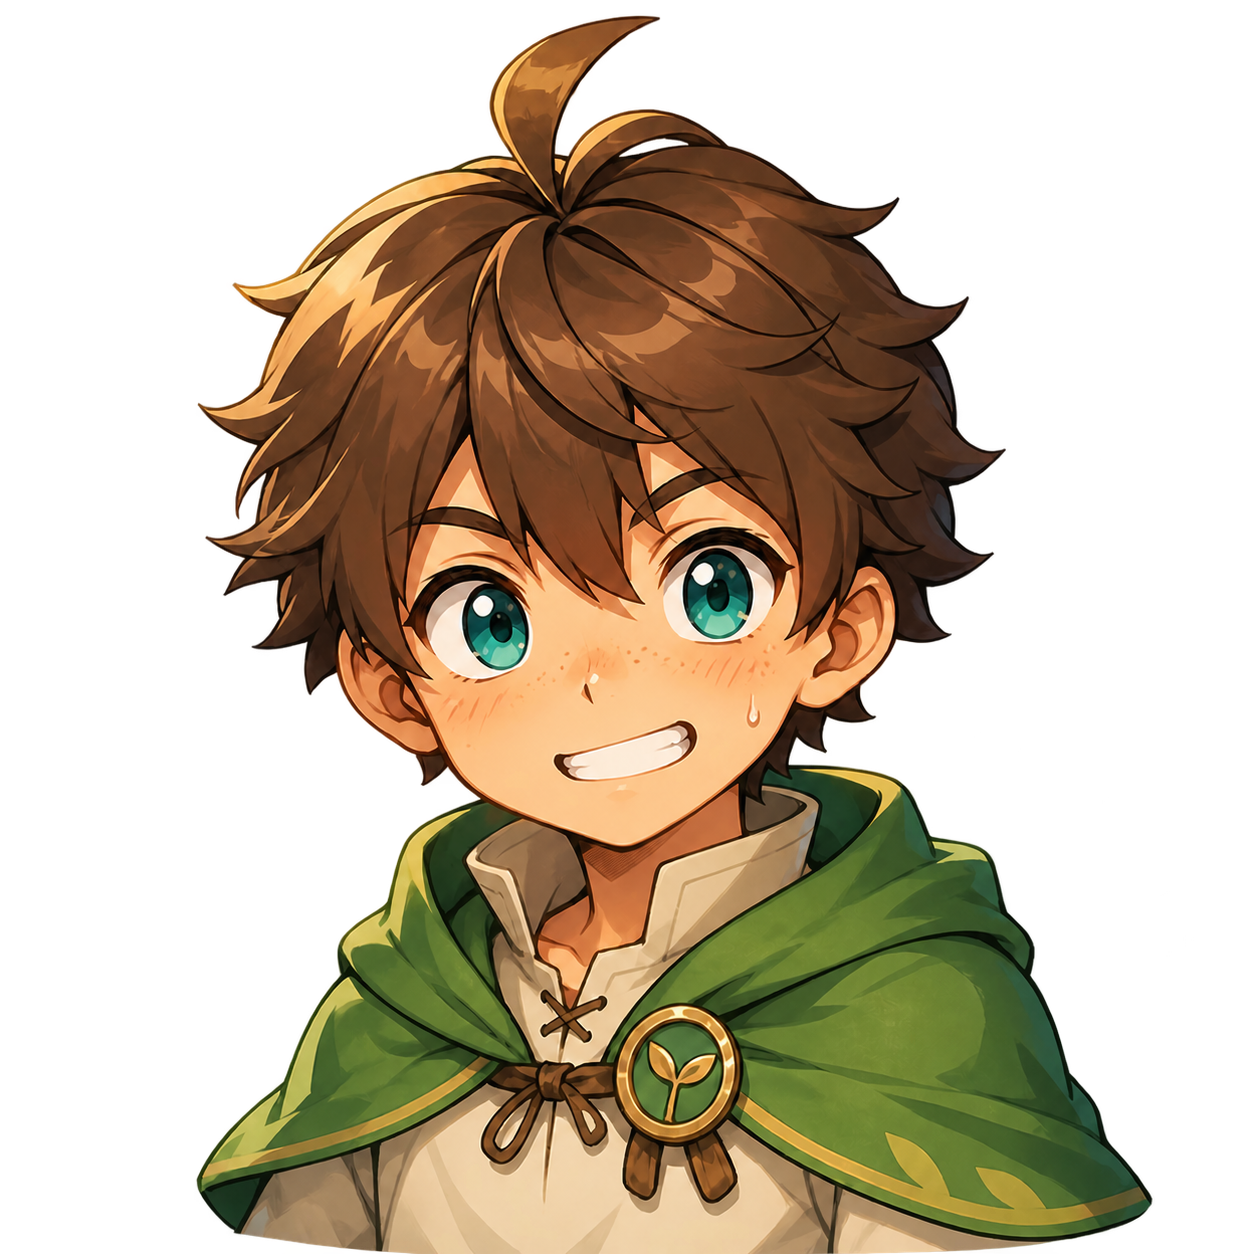
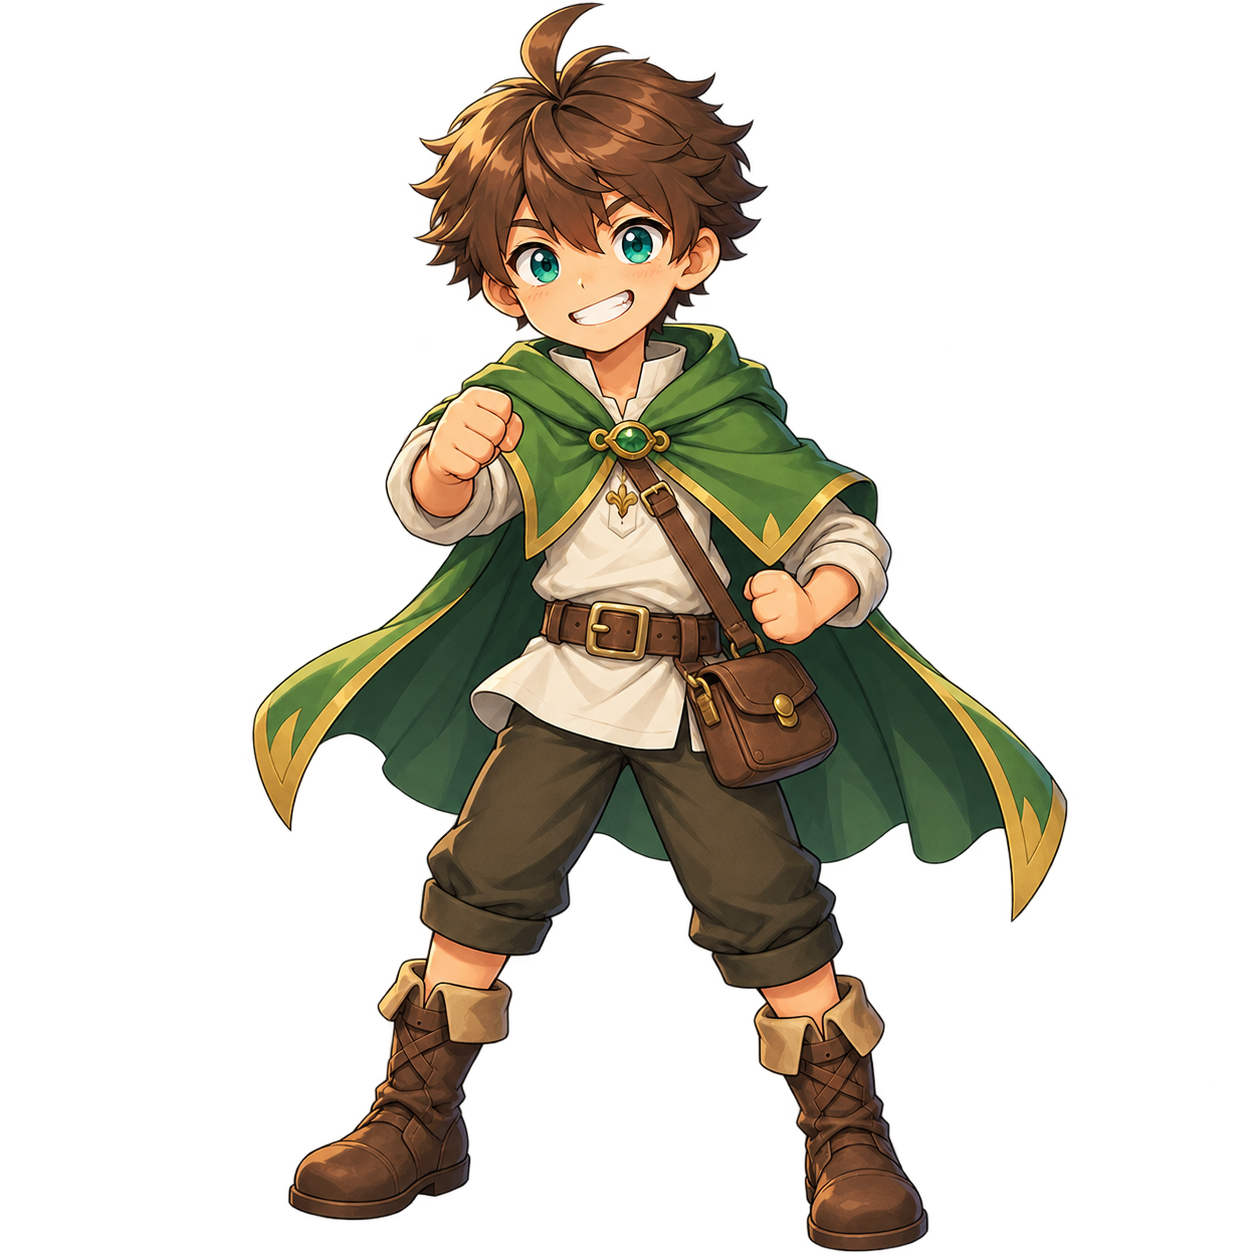
キャラカードの仮イラストを立ち絵から作成、極での出現率を上げる
- tools/chars_from_portraits.py を追加。冒険画面の立ち絵から
  顔まわりを正方形で切り出し、assets/art/c_*.png を作る。
  本番の絵ができるまでのつなぎ（同じ場所に上書きすれば差し替わる）。
- 立ち絵は元から透過の正方形だったので、頭上に少し余白を残して
  バストアップで切っている。カードの絵枠は小さく、全身より顔の方が読める。
- import_art.py の走査対象に cards_chars.js を追加。
- adopt_art.py が art_map.js を先頭スラッシュ無しで書き出していたのを修正。
  withBase() が配信base を前に足すので、相対のままだと
  GitHub Pages のサブパス配信で全カードの絵が壊れる。

- 「極」で相手デッキに混ぜる本人のカードを 1枚 → 4枚 に。
  1枚だと12枚引くまでに引ける確率が40%しかなく、ほとんど出てこなかった。
  4枚で89%になり、たいていの試合で一度は見られる。
  枚数は EXTREME_SELF_COPIES で変えられる。

diff --git a/src/ui/main.js b/src/ui/main.js
@@ -3,7 +3,7 @@
 // ============================================================
 import { ALL_CARDS, card, ELEMENTS, KEYWORDS } from '../engine/cards.js';
 import { RARITY } from '../engine/rarity.js';
-import { CHARACTER_OF, CHARACTER_WINS_NEEDED } from '../engine/cards_chars.js';
+import { CHARACTER_OF, CHARACTER_WINS_NEEDED, EXTREME_SELF_COPIES } from '../engine/cards_chars.js';
 import {
   createGame, mulligan, applyAction, legalAttackTargets, canSummon, canPlaySupport,
   canChangeMode, canAttack, supportNeedsTarget, fieldMonsters, effAtk, effDef,
@@ -1215,10 +1215,11 @@ function startBattle(areaIndex, enemyIndex, free = false) {
   const seed = (Math.random() * 1e9) | 0;
   // フリーバトルの「極」では、そのキャラ自身のカードをデッキに混ぜてくる。
   // 狙っているカードを手に入れる前に見られる、という導線でもある。
+  // 30枚に1枚だとほとんど出てこないので、多めに積ませて high 確率で見られるようにする。
   let foeDeck = [...enemy.deck];
   const selfCard = CHARACTER_OF[app.enemyKey];
   if (free && app.freeDiff === 'extreme' && selfCard) {
-    foeDeck = [selfCard, ...foeDeck.slice(1)];
+    foeDeck = [...Array(EXTREME_SELF_COPIES).fill(selfCard), ...foeDeck.slice(EXTREME_SELF_COPIES)];
   }
   app.game = createGame({
     decks: [[...app.save.deck], foeDeck],

diff --git a/src/ui/art_map.js b/src/ui/art_map.js
@@ -1,6 +1,30 @@
 // tools/import_art.py / tools/adopt_art.py が自動生成。手で編集しない。
 // カードIDごとの差し替えイラスト（透過PNG）。
 export const ART_MAP = {
+  "c_astel": "/assets/art/c_astel.webp",
+  "c_astralis": "/assets/art/c_astralis.webp",
+  "c_cardan": "/assets/art/c_cardan.webp",
+  "c_dione": "/assets/art/c_dione.webp",
+  "c_garo": "/assets/art/c_garo.webp",
+  "c_gou": "/assets/art/c_gou.webp",
+  "c_kairos": "/assets/art/c_kairos.webp",
+  "c_mina": "/assets/art/c_mina.webp",
+  "c_morley": "/assets/art/c_morley.webp",
+  "c_nameless": "/assets/art/c_nameless.webp",
+  "c_nept": "/assets/art/c_nept.webp",
+  "c_nox": "/assets/art/c_nox.webp",
+  "c_ordo": "/assets/art/c_ordo.webp",
+  "c_pirika": "/assets/art/c_pirika.webp",
+  "c_riina": "/assets/art/c_riina.webp",
+  "c_rim": "/assets/art/c_rim.webp",
+  "c_toto": "/assets/art/c_toto.webp",
+  "c_triades": "/assets/art/c_triades.webp",
+  "c_twins": "/assets/art/c_twins.webp",
+  "c_val": "/assets/art/c_val.webp",
+  "c_varga": "/assets/art/c_varga.webp",
+  "c_verda": "/assets/art/c_verda.webp",
+  "c_yona": "/assets/art/c_yona.webp",
+  "c_yue": "/assets/art/c_yue.webp",
   "f01": "/assets/art/f01.webp",
   "f02": "/assets/art/f02.webp",
   "f03": "/assets/art/f03.webp",

diff --git a/src/engine/cards_chars.js b/src/engine/cards_chars.js
@@ -197,3 +197,10 @@ export const CHARACTER_OF = {
 
 /** 「極」で本人を何回倒すと、そのキャラのカードが手に入るか */
 export const CHARACTER_WINS_NEEDED = 5;
+
+/**
+ * 「極」で、相手のデッキに混ぜる本人のカードの枚数（30枚中）。
+ * 1枚だと引かれないまま終わる試合がほとんどなので、4枚にして
+ * だいたいの試合で1回は見られるようにしている。
+ */
+export const EXTREME_SELF_COPIES = 4;

diff --git a/tools/chars_from_portraits.py b/tools/chars_from_portraits.py
@@ -1,0 +1,58 @@
+# ============================================================
+# キャラクターカードの仮イラストを、冒険画面の立ち絵から作る。
+#   本番の絵ができるまでのつなぎ。assets/art/c_*.png を上書きするので、
+#   本番の絵を置いたあとにこれを流すと消えてしまう点に注意。
+#   使い方: python tools/chars_from_portraits.py
+# ============================================================
+import io, os, re, sys
+from PIL import Image
+
+SRC = 'assets/enemies'
+OUT = 'assets/art'
+SIZE = 512          # 出力サイズ（カードの絵枠は正方形）
+HEAD_BIAS = 0.06    # 頭の上にこれだけ余白を残す（切れると窮屈に見える）
+
+# 敵キー → カードID は cards_chars.js の CHARACTER_OF から読む
+src = io.open('src/engine/cards_chars.js', encoding='utf-8').read()
+block = re.search(r'CHARACTER_OF = \{(.*?)\};', src, re.S).group(1)
+KEY_TO_ID = dict(re.findall(r"'(a\d+:\d+)':\s*'(\w+)'", block))
+
+# 敵キー → 立ち絵ファイル は assets_map.js から読む
+am = io.open('src/ui/assets_map.js', encoding='utf-8').read()
+eb = re.search(r'ENEMY_ART = \{(.*?)\};', am, re.S).group(1)
+KEY_TO_ART = dict(re.findall(r'"(a\d+:\d+)":\s*"([^"]+)"', eb))
+
+
+def square_bust(im):
+    """立ち絵から、頭～胸あたりを正方形で切り出す。
+    カードの絵枠は小さいので、全身より顔まわりの方が読み取りやすい。"""
+    bb = im.getchannel('A').getbbox() or (0, 0, *im.size)
+    x0, y0, x1, y1 = bb
+    w, h = x1 - x0, y1 - y0
+    side = min(w, h)
+    cx = (x0 + x1) // 2
+    top = max(0, y0 - int(side * HEAD_BIAS))
+    left = max(0, min(im.width - side, cx - side // 2))
+    top = max(0, min(im.height - side, top))
+    return im.crop((left, top, left + side, top + side))
+
+
+def main():
+    os.makedirs(OUT, exist_ok=True)
+    made = 0
+    for key, cid in sorted(KEY_TO_ID.items()):
+        art = KEY_TO_ART.get(key)
+        if not art:
+            print(f'  立ち絵が見つからない: {key} ({cid})'); continue
+        stem = os.path.splitext(os.path.basename(art))[0]
+        src_png = os.path.join(SRC, stem + '.png')
+        if not os.path.exists(src_png):
+            print(f'  原本が無い: {src_png}'); continue
+        im = Image.open(src_png).convert('RGBA')
+        square_bust(im).resize((SIZE, SIZE), Image.LANCZOS).save(os.path.join(OUT, f'{cid}.png'))
+        made += 1
+    print(f'仮イラストを {made} 枚つくりました（assets/art/c_*.png）')
+
+
+if __name__ == '__main__':
+    main()

diff --git a/tools/adopt_art.py b/tools/adopt_art.py
@@ -60,7 +60,9 @@ def main():
         f.write('// tools/import_art.py / tools/adopt_art.py が自動生成。手で編集しない。\n')
         f.write('// カードIDごとの差し替えイラスト（透過PNG）。\n')
         f.write('export const ART_MAP = ' +
-                json.dumps({k: f'assets/art/{k}.png' for k in have},
+                # 先頭の / は必須。withBase() が配信base（/tri-elements/ など）を
+                # 前に足すので、相対パスのままだと連結が壊れる。
+                json.dumps({k: f'/assets/art/{k}.png' for k in have},
                            ensure_ascii=False, indent=2) + ';\n')
     print('art_map.js を更新しました')
 

diff --git a/tools/import_art.py b/tools/import_art.py
@@ -30,7 +30,8 @@ def norm(s):
 def load_cards():
     """cards.js / cards_set2.js から id・名前・属性を拾う"""
     out = []
-    for path in ('src/engine/cards.js', 'src/engine/cards_set2.js', 'src/engine/cards_set3.js'):
+    for path in ('src/engine/cards.js', 'src/engine/cards_set2.js', 'src/engine/cards_set3.js',
+                 'src/engine/cards_chars.js'):
         src = open(path, encoding='utf-8').read()
         for m in re.finditer(r"[MS]\('([\w]+)', '([^']+)', '(\w+)'", src):
             out.append({'id': m.group(1), 'name': m.group(2), 'element': m.group(3)})
